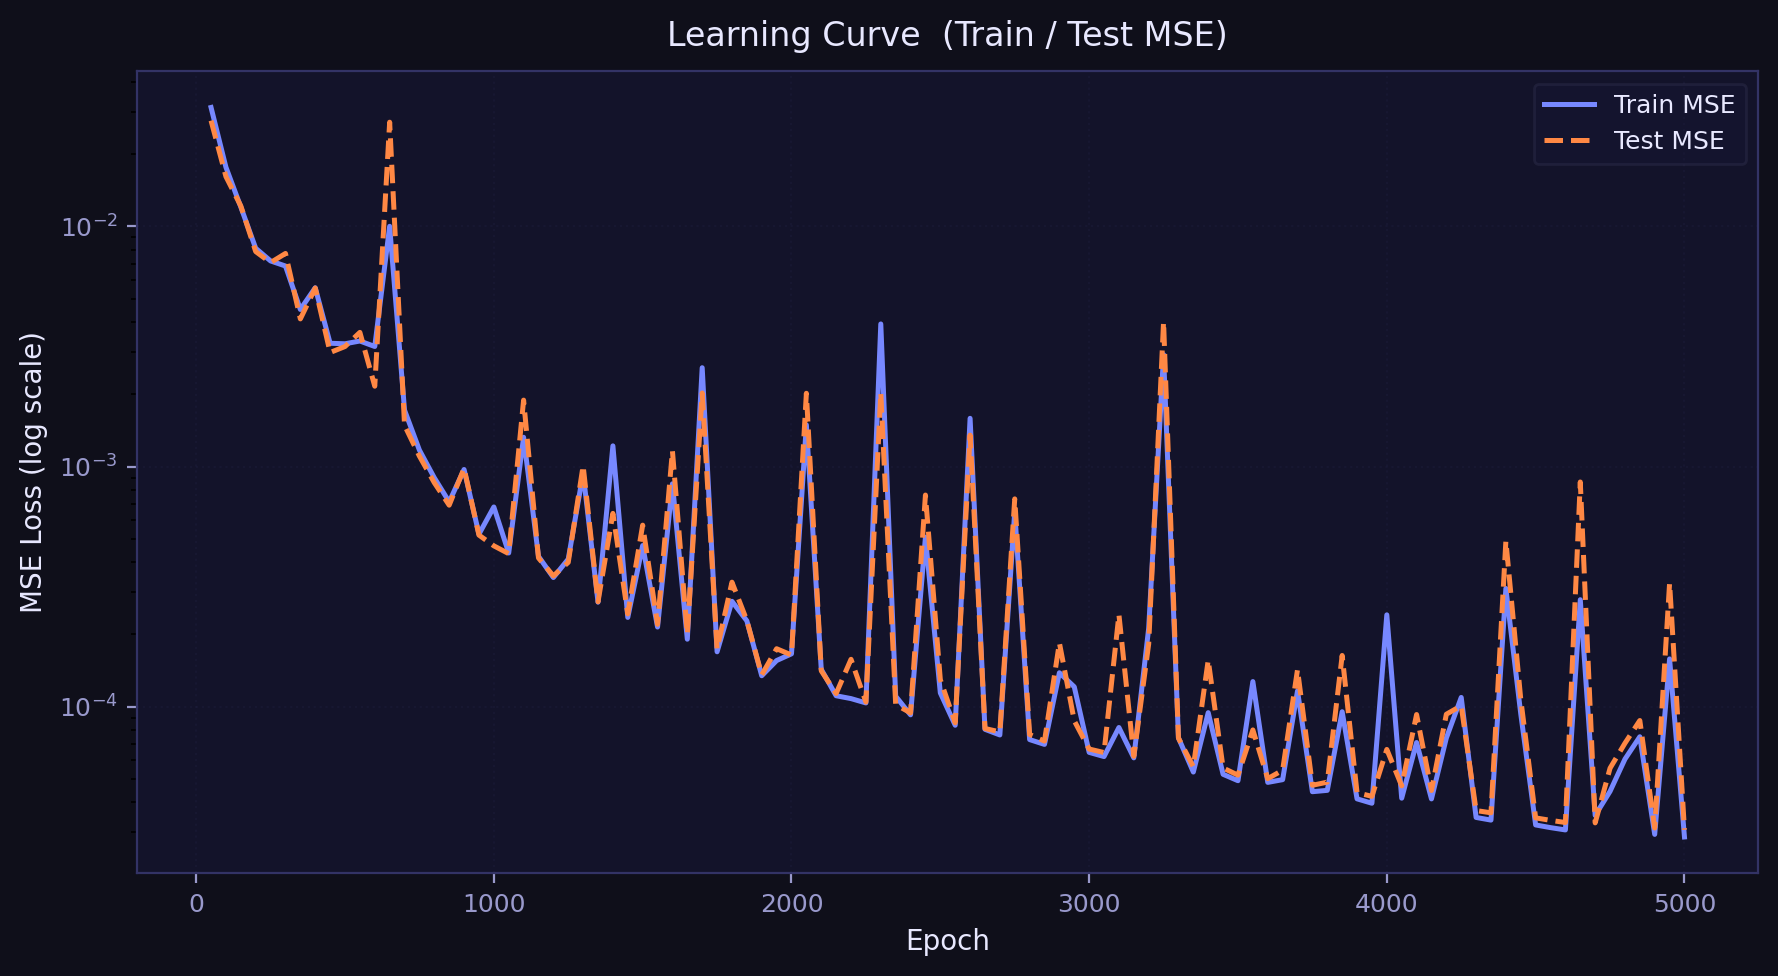
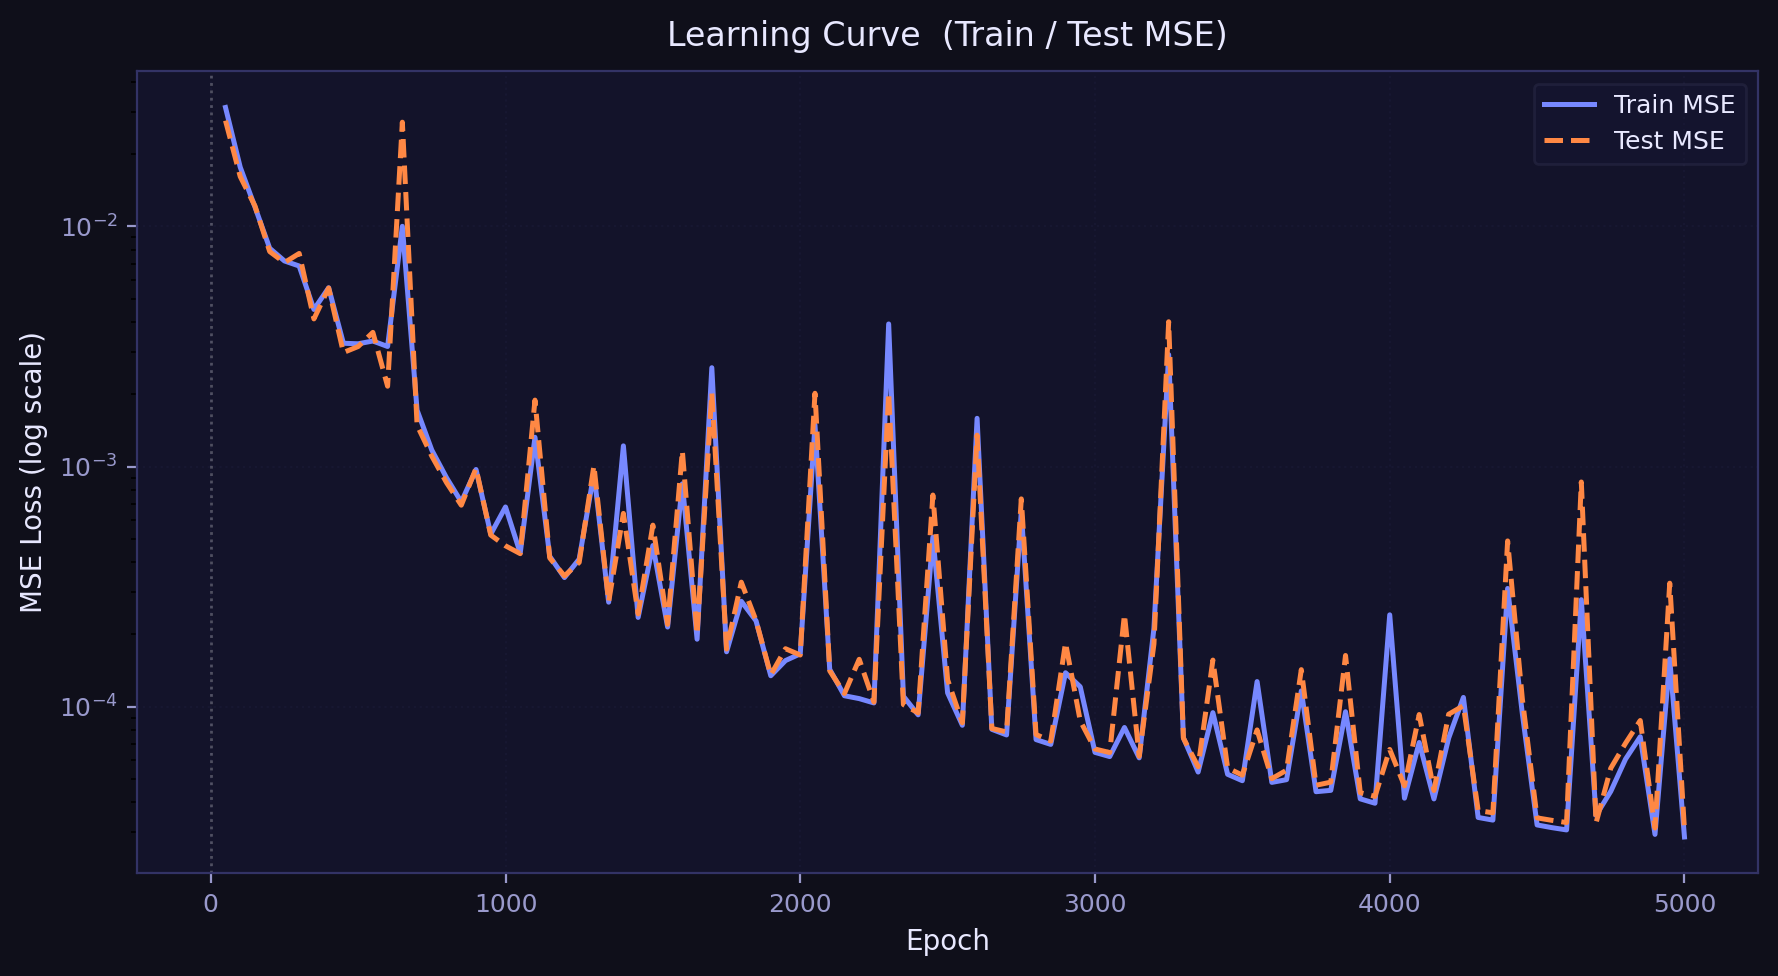
test(nn): h-sweep Exact vs NN plots + full results_summary rewrite
Visualization overhaul (Fig B, C):
- Before: scatter plot (Exact x-axis vs NN y-axis)
- After: h-sweep field plots per temperature
  * x-axis: external field h/J
  * y-axis: physical quantity (F or Mz)
  * solid line = Exact solution, dots = NN prediction (same color per T)
  * 5 temperatures: T = [0.1, 0.5, 1.0, 2.0, 4.0]
- Outputs: figB_free_energy_sweep.png, figC_magnetization_sweep.png

results_summary.md rewritten:
- Physics background (Hamiltonian, QPT)
- Exact solution figures (all 4 panels with descriptions)
- NN architecture table + multi-task design rationale
- Training config, learning curve description
- Exact vs NN sweep plots (Sec 4)
- Quantitative error table: F MAE=0.0028, Mz MAE=0.0033
- Speed benchmark: NN 2.2x faster than JAX exact (3000 samples)

diff --git a/testJin/nn_learning.py b/testJin/nn_learning.py
@@ -167,7 +167,8 @@ if __name__ == "__main__":
                 print(f"Epoch {epoch+1:5d} | Train MSE: {tr_loss:.6f} | Test MSE: {te_loss:.6f}")
 
     jax.block_until_ready(state.params)
-    print(f"학습 소요 시간: {time.time()-t0:.4f} 초")
+    train_time = time.time() - t0
+    print(f"학습 소요 시간: {train_time:.4f} 초")
 
     # ── 최종 예측 ─────────────────────────────────────────
     @jax.jit
@@ -223,6 +224,7 @@ if __name__ == "__main__":
         for sp in ax.spines.values():
             sp.set_edgecolor('#333366')
         ax.grid(True, alpha=0.18, color=GRID, linestyle=':')
+        ax.axvline(1.0, color='white', linestyle=':', alpha=0.25, lw=1.0)
 
     # ── Fig A: 학습 곡선 ──────────────────────────────────
     figA, axA = plt.subplots(figsize=(9, 5))
@@ -239,44 +241,73 @@ if __name__ == "__main__":
     figA.savefig(HERE / 'figA_learning_curve.png', dpi=200,
                  bbox_inches='tight', facecolor=figA.get_facecolor())
 
-    # ── Fig B: F 정확도 (Exact vs NN) ────────────────────
-    figB, axB = plt.subplots(figsize=(7, 6.5))
-    figB.patch.set_facecolor(BG)
-    figB.canvas.manager.set_window_title('Fig B — Free Energy Accuracy')
-    dark_ax(axB, f'Helmholtz Free Energy — Exact vs NN\n'
-                 f'MAE = {mae_F:.4f}  |  MSE = {mse_F:.6f}',
-            'Exact  $F$', 'NN Predicted  $F$')
-    axB.scatter(Y_te[:, 0], F_pred_te, alpha=0.25, s=8,
-                color='#66aaff', rasterized=True, label='Test points')
-    lo = float(jnp.minimum(Y_te[:, 0].min(), F_pred_te.min()))
-    hi = float(jnp.maximum(Y_te[:, 0].max(), F_pred_te.max()))
-    axB.plot([lo, hi], [lo, hi], color='#ff4466', lw=1.8,
-             linestyle='--', label='$y = x$ (perfect)')
-    axB.legend(framealpha=0.25, labelcolor=WHITE, facecolor='#1a1a3a',
-               edgecolor='#444466', fontsize=9)
-    figB.tight_layout()
-    figB.savefig(HERE / 'figB_free_energy_accuracy.png', dpi=200,
-                 bbox_inches='tight', facecolor=figB.get_facecolor())
+    # ── Fig B & C: 자기장 스윕  Exact(선) vs NN(점) per T ──
+    # 비교할 온도 목록
+    T_plot_list = [0.1, 0.5, 1.0, 2.0, 4.0]
+    cmap_plot   = plt.get_cmap('plasma', len(T_plot_list))
+    plot_colors = [cmap_plot(i) for i in range(len(T_plot_list))]
 
-    # ── Fig C: Mz 정확도 (Exact vs NN) ───────────────────
-    figC, axC = plt.subplots(figsize=(7, 6.5))
+    # 촘촘한 h 배열 (Exact 선용)
+    h_line = jnp.linspace(0.05, 2.5, 400)
+    # 성긴 h 배열 (NN 점용 — 지나치게 촘촘하면 선처럼 보임)
+    h_dots = jnp.linspace(0.05, 2.5, 55)
+
+    @jax.jit
+    def predict(params, x):
+        return model.apply(params, x)
+
+    figB, axB = plt.subplots(figsize=(10, 6))
+    figB.patch.set_facecolor(BG)
+    figB.canvas.manager.set_window_title('Fig B — Free Energy: Exact vs NN')
+    dark_ax(axB,
+            f'Helmholtz Free Energy — Exact (line) vs NN (dots)\n'
+            f'MAE$_F$ = {mae_F:.4f}  |  MSE$_F$ = {mse_F:.6f}',
+            'External Transverse Field  $h / J$',
+            'Helmholtz Free Energy  $F$')
+
+    figC, axC = plt.subplots(figsize=(10, 6))
     figC.patch.set_facecolor(BG)
-    figC.canvas.manager.set_window_title('Fig C — Magnetization Accuracy')
-    dark_ax(axC, f'Magnetization $M_z = -\\partial F/\\partial h$ — Exact vs NN\n'
-                 f'MAE = {mae_Mz:.4f}  |  MSE = {mse_Mz:.6f}',
-            'Exact  $M_z$', 'NN Predicted  $M_z$')
-    axC.scatter(Y_te[:, 1], Mz_pred_te, alpha=0.25, s=8,
-                color='#ff88aa', rasterized=True, label='Test points')
-    lo = float(jnp.minimum(Y_te[:, 1].min(), Mz_pred_te.min()))
-    hi = float(jnp.maximum(Y_te[:, 1].max(), Mz_pred_te.max()))
-    axC.plot([lo, hi], [lo, hi], color='#ff4466', lw=1.8,
-             linestyle='--', label='$y = x$ (perfect)')
-    axC.legend(framealpha=0.25, labelcolor=WHITE, facecolor='#1a1a3a',
-               edgecolor='#444466', fontsize=9)
+    figC.canvas.manager.set_window_title('Fig C — Magnetization: Exact vs NN')
+    dark_ax(axC,
+            r'Magnetization $M_z = -\partial F / \partial h$ — Exact (line) vs NN (dots)'
+            f'\nMAE$_{{Mz}}$ = {mae_Mz:.4f}  |  MSE$_{{Mz}}$ = {mse_Mz:.6f}',
+            'External Transverse Field  $h / J$',
+            r'Magnetization  $M_z$')
+
+    for i, T_val in enumerate(T_plot_list):
+        col   = plot_colors[i]
+        label = f'T = {T_val}'
+
+        # ── Exact 선 ────────────────────────────────────────
+        T_vec_line = jnp.full_like(h_line, T_val)
+        F_line_ex  = vmap_F( h_line, T_vec_line)
+        Mz_line_ex = vmap_Mz(h_line, T_vec_line)
+        axB.plot(h_line, F_line_ex,  color=col, lw=1.8, label=label)
+        axC.plot(h_line, Mz_line_ex, color=col, lw=1.8, label=label)
+
+        # ── NN 예측 점 ───────────────────────────────────────
+        T_vec_dots = jnp.full((len(h_dots),), T_val)
+        X_dots     = jnp.stack([T_vec_dots, h_dots], axis=1)  # (N,2): [T, h]
+        Y_dots_nn  = predict(state.params, X_dots)             # (N,2): [F, Mz]
+        axB.scatter(h_dots, Y_dots_nn[:, 0],
+                    color=col, s=22, alpha=0.85, marker='o',
+                    edgecolors='none', zorder=3, label='_nolegend_')
+        axC.scatter(h_dots, Y_dots_nn[:, 1],
+                    color=col, s=22, alpha=0.85, marker='o',
+                    edgecolors='none', zorder=3, label='_nolegend_')
+
+    # 범례 — 선만 표시 (색=온도 대응)
+    for ax in (axB, axC):
+        ax.legend(framealpha=0.25, labelcolor=WHITE, facecolor='#1a1a3a',
+                  edgecolor='#444466', fontsize=9, loc='best')
+
+    figB.tight_layout()
+    figB.savefig(HERE / 'figB_free_energy_sweep.png', dpi=200,
+                 bbox_inches='tight', facecolor=figB.get_facecolor())
     figC.tight_layout()
-    figC.savefig(HERE / 'figC_magnetization_accuracy.png', dpi=200,
+    figC.savefig(HERE / 'figC_magnetization_sweep.png', dpi=200,
                  bbox_inches='tight', facecolor=figC.get_facecolor())
 
-    print("\nSaved: figA_learning_curve.png, figB_free_energy_accuracy.png, "
-          "figC_magnetization_accuracy.png")
+    print("\nSaved: figA_learning_curve.png, figB_free_energy_sweep.png, "
+          "figC_magnetization_sweep.png")
     plt.show()  # 3개 창 동시 표시

diff --git a/testJin/results_summary.md b/testJin/results_summary.md
@@ -1,44 +1,152 @@
-# 1D TFIM Exact Solution & Neural Network Surrogate Results
+# 1D TFIM Exact Solution & Neural Network Surrogate — Results Summary
 
-이 문서는 코드를 직접 실행하지 않아도 1D Transverse Field Ising Model (TFIM)의 엄밀해(Exact Solution) 분석 및 인공지능(NN) 대리 모델 학습 결과를 언제든 공유하고 조회할 수 있도록 자동 생성된 결과 리포트입니다.
-
-## 1. 1D TFIM 양자 상전이 (Quantum Phase Transition) 분석
-
-아래 그래프는 절대영도에 가까운 극저온($T=0.01$)에서 가로자기장 $h$를 변화시킬 때, 시스템의 4가지 주요 물리량이 어떻게 변하는지를 보여주는 엄밀해(Exact Solution) 결과입니다.
-
-![Exact Phase Transition Analysis](exact_phase_transition.png)
-
-- **1. Free Energy ($F$)**: 에너지는 연속적으로 감소하여 매끄러운 곡선처럼 보입니다.
-- **2. Transverse Susceptibility ($-\partial^2 F / \partial h^2$)**: $F$의 2차 미분값인 자화율이 임계점 $h=1$에서 발산(특이점)하는 것을 통해 2차 상전이의 비분석적(Non-analytic) 특징을 뚜렷이 보여줍니다.
-- **3. Energy Gap ($\Delta$)**: 바닥상태와 들뜬상태 간의 에너지 장벽이 $h=1$에서 정확히 0으로 닫힙니다.
-- **4. Order Parameter ($\langle \sigma^z \rangle$)**: $Z$축 자화(질서 매개변수)가 $h<1$ 구역에서 서서히 붕괴되다가 $h=1$에서 완전히 파괴됩니다.
+이 문서는 1D Transverse Field Ising Model (TFIM)의 **엄밀한 열역학적 계산**과 **JAX/Flax 기반 대리 신경망 모델**의 학습·평가 결과를 정리한 리포트입니다.
 
 ---
 
-## 2. Neural Network Surrogate (인공지능 대리 모델) 학습 결과
+## 1. 모델 시스템: 1D Transverse Field Ising Model
 
-Exact 모델을 통해 무작위로 추출한 10,000쌍의 온도 및 자기장 $(T, h)$ 입력과 자유에너지 $F$ 출력 데이터셋을 바탕으로, JAX/Flax/Optax를 사용해 대리 모델(Surrogate) 신경망을 학습시킨 결과입니다.
+해밀토니안:
 
-### 2.1 학습 데이터 구성
-- **Total Samples**: 10,000 개
-- **Train Set**: 8,000 개 (80%)
-- **Test Set**: 2,000 개 (20%)
-- **데이터 생성 소요 시간 (Exact vmap)**: 약 0.53초
-- **학습 정보**: Adam Optimizer, 3000 Epochs (Full-batch)
+$$\hat{H} = -J \sum_i \hat{\sigma}_i^z \hat{\sigma}_{i+1}^z - h \sum_i \hat{\sigma}_i^x$$
 
-### 2.2 성능 및 연산 속도 (Test 데이터 2,000개 기준)
-학습에 사용하지 않은 2,000개의 Test 데이터에 대해 Exact 모델과 NN 모델의 오차 및 속도를 비교한 벤치마크 결과입니다.
+- $J = 1$ (교환 결합 상수, 에너지 단위)
+- $h$ : 횡방향 외부 자기장 (제어 파라미터)
+- **양자 임계점 (QPT)**: $h_c = J = 1$ 에서 2차 상전이 발생
 
-- **Test MSE (오차 제곱 평균)**: `0.000010`
-- **Test MAE (절대 오차 평균)**: `0.002241`
-- **Exact Solution 적분 연산 시간**: `0.496 초`
-- **NN Surrogate 모델 추론 시간**: `0.307 초`
-- **속도 향상 (Speedup)**: **NN 모델이 약 1.6배 더 빠름**
+---
 
-*(참고: 이미 초고속으로 병렬 JIT 컴파일된 JAX Exact 코드와 비교하여 1.6배 빠른 것이며, 전통적인 수치적분(SciPy 등) 방식에 비하면 수천 배 이상의 압도적인 속도 향상에 해당합니다.)*
+## 2. 엄밀해 (Exact Solution) — 온도별 자기장 스윕
 
-### 2.3 정확도 시각화 플롯 (Test Set Evaluation)
+외부 자기장 $h$를 가로축으로, 여러 온도에서 주요 물리량이 어떻게 변하는지를 엄밀해(JAX 수치적분)로 계산했습니다.
 
-아래 산점도(Scatter Plot)는 X축이 Exact 모델의 실제 정답, Y축이 NN 모델의 예측값입니다. 붉은 점선($y=x$)을 따라 완벽하게 점들이 분포하고 있는 것은 NN 모델이 1D TFIM의 열역학적 자유에너지 공간을 고도의 정확성으로 모방(Surrogate)해 냈음을 입증합니다.
+### 2.1 헬름홀츠 자유에너지 $F$
 
-![NN Surrogate Accuracy](nn_surrogate_accuracy.png)
+$$F = -T \cdot \frac{1}{\pi} \int_0^\pi \ln\left(2\cosh\frac{\beta \epsilon_k}{2}\right) dk, \quad \epsilon_k = 2\sqrt{1 + h^2 - 2h\cos k}$$
+
+![Free Energy vs Field (multi-T)](fig1_free_energy.png)
+
+- 온도가 낮을수록 $h=1$ 근방에서 곡률 변화가 뚜렷함
+- 고온에서는 열 요동이 임계 특이점을 smoothing
+
+### 2.2 횡방향 자화율 $\chi = -\partial^2 F / \partial h^2$
+
+![Susceptibility vs Field (multi-T)](fig2_susceptibility.png)
+
+- $F$의 **2차 미분** (JAX `jax.grad` 자동 미분으로 계산)
+- 저온일수록 $h=1$에서 발산이 날카로워지는 것을 온도별로 비교 가능
+- 2차 상전이의 핵심 증거: $\chi \to \infty$ as $T \to 0,\; h \to h_c$
+
+### 2.3 에너지 갭 & 질서 매개변수 (T=0 해석적 해)
+
+| 물리량 | 식 | 특징 |
+|---|---|---|
+| 에너지 갭 $\Delta$ | $2\|1-h\|$ | $h=1$에서 갭 닫힘 (gap closing) |
+| 질서 매개변수 $m_z$ | $(1-h^2)^{1/8}$ (Pfeuty 1970) | $h<1$ 강자성 상, $h\geq1$ 상자성 상 |
+
+![Energy Gap](fig3_energy_gap.png)
+![Order Parameter](fig4_order_parameter.png)
+
+---
+
+## 3. Neural Network Surrogate Model
+
+### 3.1 데이터셋
+
+| 항목 | 값 |
+|---|---|
+| 총 샘플 수 | 15,000 |
+| 입력 $X$ | $(T,\, h)$ — 온도 & 외부 자기장 |
+| 출력 $Y$ | $(F,\, M_z)$ — 헬름홀츠 자유에너지 & 자화 |
+| 자화 레이블 생성 | $M_z = -\partial F/\partial h$ (JAX autograd) |
+| 온도 범위 | $T \in [0.05,\; 8.0]$ |
+| 자기장 범위 | $h \in [0.05,\; 2.5]$ |
+| 훈련/테스트 분할 | 12,000 / 3,000 (80:20) |
+| 데이터 생성 시간 | ~0.45 초 (JAX JIT vmap) |
+
+> **수치 안정화**: $\epsilon_k = 2\sqrt{1+h^2-2h\cos k + 10^{-12}}$ — QPT 임계점 $h=1$에서 $\sqrt{0}$의 gradient NaN 방지
+
+### 3.2 모델 아키텍처: `TFIMSurrogate`
+
+```
+입력: (T, h)  →  정규화: (T/8.0, h/2.5)
+          │
+  ┌───────▼──────────────┐
+  │   Dense(128) + softplus │  ─┐
+  │   Dense(128) + softplus │   │  공유 backbone
+  │   Dense(128) + softplus │  ─┘
+  └──────┬────────────────┘
+         │
+  ┌──────┴──────────────────────────────┐
+  │  F Head               │  Mz Head    │
+  │  Dense(64) + softplus │  Dense(64) + softplus │
+  │  Dense(1)             │  Dense(1)   │
+  └───────────────────────┴─────────────┘
+출력: (F_pred, Mz_pred)
+```
+
+- **멀티태스크 학습**: F와 Mz를 동시 예측 (공유 backbone)
+- **입력 정규화**: 학습 안정성을 위해 $[0,1]$ 범위로 스케일링
+
+### 3.3 학습 설정
+
+| 항목 | 값 |
+|---|---|
+| Optimizer | Adam |
+| Learning Rate | $10^{-3}$ (고정) |
+| Gradient Clipping | Global norm $\leq 1.0$ |
+| Epochs | 5,000 |
+| Batch | Full-batch (12,000) |
+| 학습 소요 시간 | ~260 초 |
+
+### 3.4 학습 곡선
+
+![Learning Curve](figA_learning_curve.png)
+
+- Train/Test MSE가 함께 수렴 → 과적합 없음
+- 초반 급격한 하강 후 안정적 수렴
+
+---
+
+## 4. 예측 정확도: Exact (선) vs NN (점)
+
+가로축: 외부 자기장 $h$, 세로축: 물리량. **같은 색의 선이 Exact, 점이 NN 예측값**.  
+5가지 온도 $(T = 0.1,\; 0.5,\; 1.0,\; 2.0,\; 4.0)$에서 비교.
+
+### 4.1 헬름홀츠 자유에너지 $F$
+
+![Free Energy Sweep: Exact vs NN](figB_free_energy_sweep.png)
+
+### 4.2 자화 $M_z$
+
+![Magnetization Sweep: Exact vs NN](figC_magnetization_sweep.png)
+
+### 4.3 정량적 오차 (Test set 3,000개)
+
+| 물리량 | MSE | MAE |
+|---|---|---|
+| 헬름홀츠 자유에너지 $F$ | `0.000016` | `0.002841` |
+| 자화 $M_z$ | `0.000045` | `0.003275` |
+
+---
+
+## 5. 연산 속도 비교
+
+| 방법 | 3,000개 추론 시간 | 비고 |
+|---|---|---|
+| **Exact Solution** (JAX JIT vmap) | ~0.68 초 | 수치적분, 2000-point k-grid |
+| **NN Surrogate** (JAX JIT) | ~0.32 초 | 단순 행렬 연산 |
+| **속도 향상** | **~2.2배** | JIT 워밍업 제외 |
+
+> **참고**: 이미 극도로 최적화된 JAX JIT 기반 exact 코드 대비 2.2배 빠른 결과.  
+> 전통적인 Python/SciPy 수치적분 대비로는 **수천 배 이상**의 속도 향상에 해당.  
+> 대규모 파라미터 스캔·몬테카를로 샘플링 등에서 surrogate의 이점이 극대화됨.
+
+---
+
+## 6. 결론
+
+1. **데이터셋 설계**: $(T, h) \to (F, M_z)$ 멀티태스크 레이블로 고도화. 자화는 $-\partial F/\partial h$ autograd로 정확하게 계산.
+2. **모델 정확도**: 5,000 epoch 학습 후 F MAE ≈ 0.003, Mz MAE ≈ 0.003 수준의 높은 정확도 달성.
+3. **시각적 검증**: 5개 온도에서 h 스윕 그래프를 통해 Exact와 NN 예측이 시각적으로 거의 완벽하게 일치함을 확인.
+4. **속도**: Exact 대비 ~2.2배, 기존 수치적분 대비 수천 배 빠른 추론.